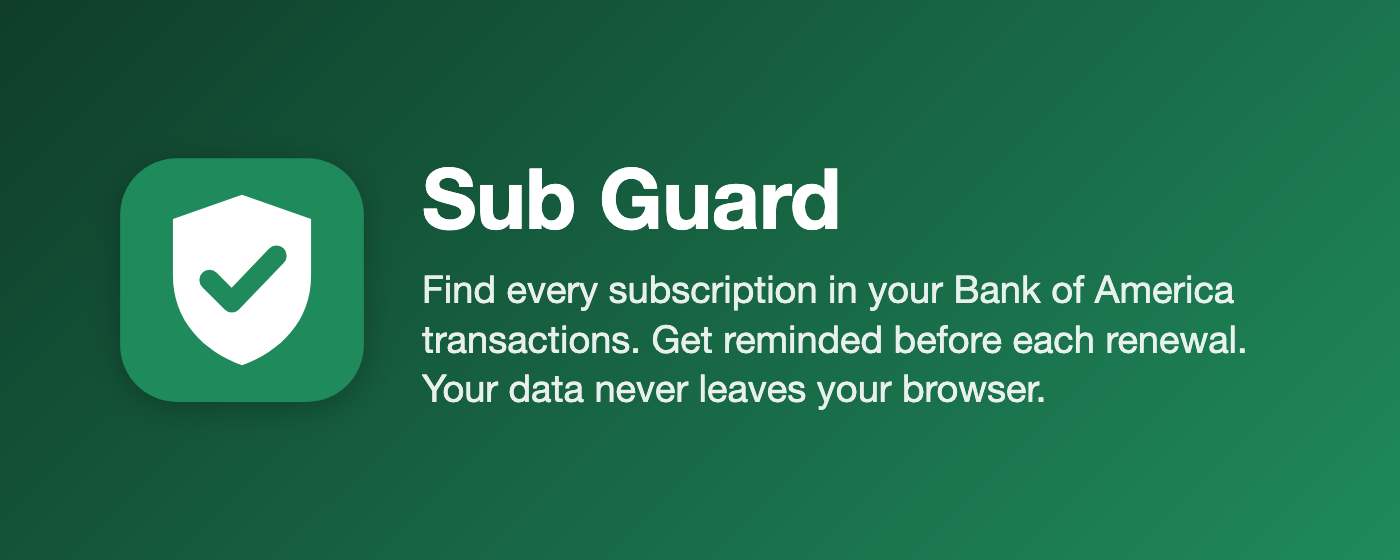
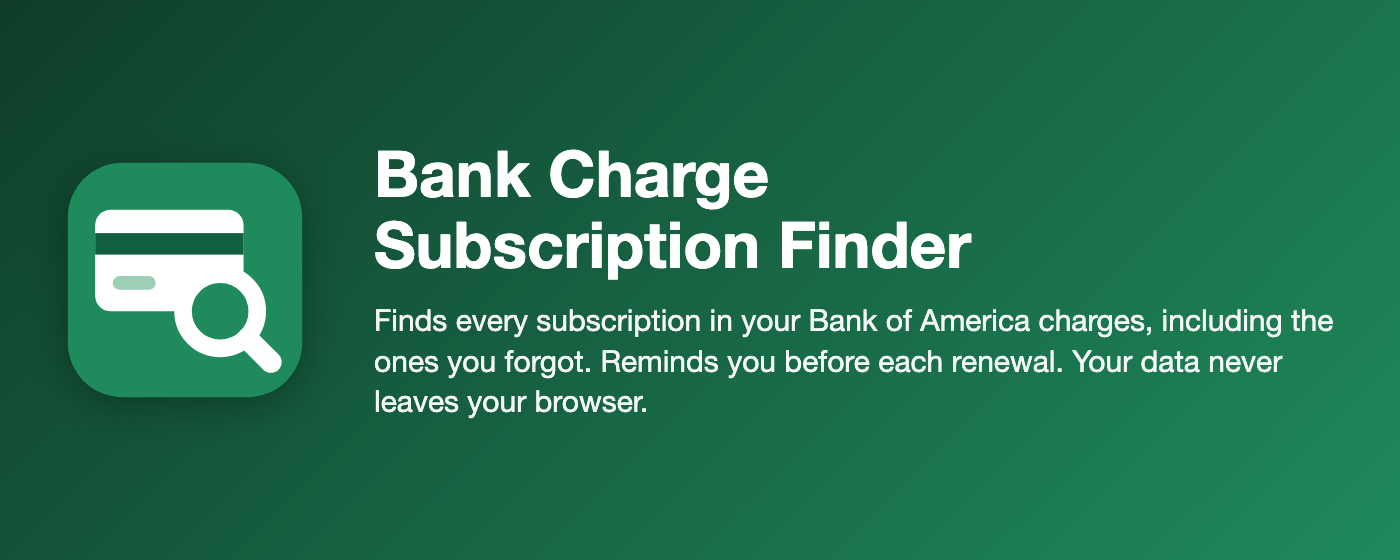
rename to bank-charge-subscription-finder

Changed region(s): [[0.0307, 0.2429, 0.9521, 0.7589]]

diff --git a/details.js b/details.js
@@ -120,7 +120,7 @@ const csvCell = (v) => `"${String(v ?? '').replace(/"/g, '""')}"`;
 $('exportTxns').onclick = () => {
   const lines = ['date,description,amount,account']
     .concat(txns.map((t) => [t.date, t.desc, t.amount.toFixed(2), t.account].map(csvCell).join(',')));
-  download(`sub-guard-transactions-${stamp()}.csv`, lines.join('\n'), 'text/csv');
+  download(`subscription-finder-transactions-${stamp()}.csv`, lines.join('\n'), 'text/csv');
   say(`Exported ${txns.length} transactions.`);
 };
 
@@ -139,7 +139,7 @@ $('exportDebug').onclick = async () => {
       return { at: new Date(s.at).toISOString(), path: s.path, rowsFound: E.extractRows(doc).length, skeleton: E.skeleton(doc) };
     }),
   };
-  download(`sub-guard-debug-${stamp()}.json`, JSON.stringify(info, null, 2), 'application/json');
+  download(`subscription-finder-debug-${stamp()}.json`, JSON.stringify(info, null, 2), 'application/json');
   say(`Exported debug info: ${debugLog.length} scan steps, ${snapshots.length} saved pages (text masked).`);
 };
 

diff --git a/content.js b/content.js
@@ -24,7 +24,7 @@
           button.s{background:transparent;color:#fff;border:1px solid rgba(255,255,255,.5)}
           label{display:block;margin:3px 0}
         </style>
-        <div class="b"><div class="t">Sub Guard</div><div class="m"></div><div class="a"></div></div>`;
+        <div class="b"><div class="t">Bank Charge Subscription Finder</div><div class="m"></div><div class="a"></div></div>`;
       bannerText = root.querySelector('.m');
       bannerActions = root.querySelector('.a');
       document.documentElement.appendChild(host);

diff --git a/analyze.js b/analyze.js
@@ -137,7 +137,7 @@ export function parseBankCsv(text, account = '') {
   const ai = h.findIndex((c) => c === 'amount');
   let ci = h.findIndex((c) => /payee|description|merchant|name/.test(c));
   if (ci < 0) ci = h.findIndex((_, i) => i !== di && i !== ai);
-  const acc = h.indexOf('account'); // present in Sub Guard's own export
+  const acc = h.indexOf('account'); // present in this extension's own export
   return lines.slice(hi + 1).map((r) => ({ date: r[di], desc: r[ci], amount: r[ai], account: (acc >= 0 && r[acc]) || account }));
 }
 

diff --git a/popup.html b/popup.html
@@ -13,7 +13,7 @@
   </style>
 </head>
 <body>
-  <h1 style="font-size:16px;margin:0 0 10px">Sub Guard</h1>
+  <h1 style="font-size:16px;margin:0 0 10px">Bank Charge Subscription Finder</h1>
   <button id="analyze" class="primary">Analyze Bank of America</button>
   <p class="muted small" style="margin:6px 0 0">Opens BofA in a new tab. You log in; I read your transactions and find subscriptions. Nothing leaves this browser.</p>
   <div class="row"><button id="results">Report</button><button id="details">Details</button></div>

diff --git a/test/analyze.test.js b/test/analyze.test.js
@@ -187,7 +187,7 @@ test('rows with screen-reader button text or balance lines are dropped, includin
   assert.deepEqual(all.map((t) => t.desc), ['NETFLIX.COM']);
 });
 
-test("re-importing Sub Guard's own CSV export keeps each row's account", () => {
+test("re-importing the extension's own CSV export keeps each row's account", () => {
   const csv = 'date,description,amount,account\n"2026-11-03","NETFLIX.COM","15.49","Visa - 0000"\n';
   const [r] = parseBankCsv(csv, 'file-name');
   assert.equal(r.account, 'Visa - 0000');

diff --git a/background.js b/background.js
@@ -146,7 +146,7 @@ chrome.alarms.onAlarm.addListener(async (alarm) => {
     chrome.notifications.create('rescan', {
       type: 'basic',
       iconUrl: 'icons/icon128.png',
-      title: 'Sub Guard: monthly subscription check',
+      title: 'Monthly subscription check',
       message: lastScanAt
         ? `No Bank of America scan yet this month (last one ${new Date(lastScanAt).toLocaleDateString()}). Click to scan now.`
         : 'You haven\'t scanned Bank of America yet. Click to scan now.',

diff --git a/details.html b/details.html
@@ -3,7 +3,7 @@
 <head>
   <meta charset="utf-8">
   <meta name="viewport" content="width=device-width, initial-scale=1">
-  <title>Sub Guard · Details</title>
+  <title>Details · Bank Charge Subscription Finder</title>
   <link rel="stylesheet" href="style.css">
   <style>
     main { max-width: 980px; margin: 0 auto; padding: 24px 16px 60px; }

diff --git a/results.html b/results.html
@@ -3,7 +3,7 @@
 <head>
   <meta charset="utf-8">
   <meta name="viewport" content="width=device-width, initial-scale=1">
-  <title>Sub Guard · Report</title>
+  <title>Report · Bank Charge Subscription Finder</title>
   <link rel="stylesheet" href="style.css">
   <style>
     main { max-width: 760px; margin: 0 auto; padding: 24px 16px 60px; }

diff --git a/store/LISTING.md b/store/LISTING.md
@@ -3,13 +3,13 @@
 Everything needed for the Chrome Web Store developer dashboard, field by field.
 
 ## Package
-Raise `version` in manifest.json for every upload (the store rejects the same or a lower one). `npm run package` → `dist/sub-guard-<version>.zip`. Upload that file.
+Raise `version` in manifest.json for every upload (the store rejects the same or a lower one). `npm run package` → `dist/bank-charge-subscription-finder-<version>.zip`. Upload that file.
 
 ## Store listing
 
-**Name:** Sub Guard
+**Name (from manifest.json `name`):** Bank Charge Subscription Finder
 
-**Summary (≤132 chars, from manifest.json `description`):** Data stays in your browser. Finds Bank of America subscriptions, reminds before renewals. Open source: github.com/leonmu/sub-guard
+**Summary (≤132 chars, from manifest.json `description`):** Finds subscriptions in your Bank of America charges. Data stays in your browser. Open source: github.com/leonmu/sub-guard
 
 **Category:** Productivity → Tools (or Lifestyle → Shopping if Tools is unavailable)
 
@@ -17,19 +17,20 @@ Raise `version` in manifest.json for every upload (the store rejects the same or
 
 **Description:**
 
-> Your bank data never leaves your browser. Sub Guard has no server: your transactions, notes and settings are stored
-> only on your computer and are never sent to us, to Google, or to anyone. The only website it talks to is Bank of
-> America itself, while you scan.
+> Forgot to cancel a subscription again? Most subscription trackers guess from your browsing history, or ask you to
+> link an account on their website. Bank Charge Subscription Finder reads the charges your bank actually made, so it
+> also finds the subscriptions you forgot about, and reminds you before each one renews.
 >
-> Don't take our word for it: Sub Guard is open source, so you can read every line yourself at
+> No account, no website to link, no password shared. You log in to Bank of America yourself; the extension reads
+> the activity page you're looking at, in your browser. Your transactions, notes and settings are stored only on
+> your computer and are never sent to us, to Google, or to anyone.
+>
+> Don't take our word for it: the code is open source, so you can read every line yourself at
 > https://github.com/leonmu/sub-guard . An automated test there blocks any change that would send data out.
 >
-> Forgot to cancel a subscription again? Sub Guard finds every recurring charge on your Bank of America
-> cards and accounts, and reminds you before each one renews.
->
 > HOW IT WORKS
-> • Click "Analyze Bank of America". A Bank of America tab opens and you log in as usual. Sub Guard never touches the login form.
-> • Sub Guard reads your account activity, up to about a year back, across the accounts you choose.
+> • Click "Analyze Bank of America". A Bank of America tab opens and you log in as usual. The extension never touches the login form.
+> • It reads your account activity, up to about a year back, across the accounts you choose.
 > • You get a report of this month's subscriptions, plus a "suspicious" list: repeat charges that might be subscriptions.
 > • Three days before a subscription renews, you get a notification. If you haven't scanned in a month, it reminds you to.
 >
@@ -43,7 +44,7 @@ Raise `version` in manifest.json for every upload (the store rejects the same or
 > • Import a CSV exported from Bank of America instead of scanning.
 > • Browse and filter every transaction it read, and export them as CSV.
 >
-> Sub Guard is open source: https://github.com/leonmu/sub-guard
+> Free, no limits. Open source: https://github.com/leonmu/sub-guard
 > Not affiliated with or endorsed by Bank of America.
 
 **Screenshots (1280×800):** `store/screenshot-report.png`, `store/screenshot-details.png` (made-up demo data)

diff --git a/README.md b/README.md
@@ -1,11 +1,14 @@
 <p align="center"><img src="icons/icon128.png" width="96" alt=""></p>
 
-# Sub Guard
+# Bank Charge Subscription Finder
 
 A Chrome extension that finds the subscriptions in your Bank of America transactions and reminds you before
 they renew, so a forgotten trial or an unused plan doesn't keep charging you for months.
 
-**Privacy promise:** Sub Guard has no server. Your transactions, notes and settings are stored only in your browser and are never sent anywhere: not to us, not to Google, not to anyone. The only website it talks to is Bank of America itself, while you scan. The code is open source, and [an automated test](test/privacy.test.js) fails if any change would send data out. See [PRIVACY.md](PRIVACY.md).
+Most subscription trackers guess from your browsing history or ask you to link an account on their website. This
+one reads the charges your bank actually made, so it also finds the subscriptions you forgot about.
+
+**Privacy promise:** the extension has no server. Your transactions, notes and settings are stored only in your browser and are never sent anywhere: not to us, not to Google, not to anyone. The only website it talks to is Bank of America itself, while you scan. The code is open source, and [an automated test](test/privacy.test.js) fails if any change would send data out. See [PRIVACY.md](PRIVACY.md).
 
 ![Report](store/screenshot-report.png)
 
@@ -26,7 +29,7 @@ From source, until it's on the Chrome Web Store:
 
 1. Download or clone this repo.
 2. Open `chrome://extensions`, turn on **Developer mode**, click **Load unpacked**, pick the folder.
-3. Pin the Sub Guard icon and click **Analyze Bank of America**.
+3. Pin the extension icon and click **Analyze Bank of America**.
 
 If a scan gets stuck, use **Scan this page** in its banner. You can also download a CSV from Bank of America
 (Account activity → Download) and use **Import CSV** on the Details page.
@@ -58,7 +61,7 @@ Extension pages run with `connect-src 'none'`, so they cannot send data anywhere
 npm test            # unit tests, including the privacy guard (Node 20+)
 npm run test:e2e    # loads the extension in Playwright against a local mock page; bankofamerica.com is
                     # mapped to localhost so the real site is never contacted. Needs PLAYWRIGHT=<path to playwright>
-npm run package     # dist/sub-guard-<version>.zip for the Chrome Web Store
+npm run package     # dist/bank-charge-subscription-finder-<version>.zip for the Chrome Web Store
 ```
 
 - [extract.js](extract.js) reads transactions from a page. It's shared by the live scan ([content.js](content.js)) and

diff --git a/PRIVACY.md b/PRIVACY.md
@@ -1,24 +1,24 @@
-# Sub Guard privacy policy
+# Bank Charge Subscription Finder privacy policy
 
-_Last updated: November 14, 2026_
+_Last updated: November 22, 2026_
 
-Sub Guard is a Chrome extension that finds recurring charges (subscriptions) in your Bank of America
+Bank Charge Subscription Finder is a Chrome extension that finds recurring charges (subscriptions) in your Bank of America
 transactions and reminds you before they renew.
 
 ## Summary
 
-**Your data never leaves your browser.** Sub Guard has no server, no account, no analytics and no tracking.
+**Your data never leaves your browser.** The extension has no server, no account, no analytics and no tracking.
 It does not sell, share or transfer your data to anyone.
 
-## What Sub Guard reads
+## What the extension reads
 
-Only when you start a scan, and only in the tab that scan opens, Sub Guard reads the Bank of America
+Only when you start a scan, and only in the tab that scan opens, the extension reads the Bank of America
 account activity pages you're logged in to: transaction dates, descriptions, amounts and the account name.
 You can also import a CSV file you downloaded from your bank.
 
-Sub Guard never reads, fills in or stores your login details. You log in yourself.
+The extension never reads, fills in or stores your login details. You log in yourself.
 
-## What Sub Guard stores, and where
+## What the extension stores, and where
 
 Everything is kept in Chrome's local extension storage (`chrome.storage.local`) on your computer:
 
@@ -27,7 +27,7 @@ Everything is kept in Chrome's local extension storage (`chrome.storage.local`) 
 - the subscriptions it found, and your own notes and choices (removed, marked as subscription)
 - settings such as which accounts to scan
 
-## What Sub Guard sends
+## What the extension sends
 
 Nothing. The extension's pages are blocked from making network requests (`connect-src 'none'`), and the
 extension can only access `bankofamerica.com`. Reminders are local Chrome notifications.
@@ -48,7 +48,7 @@ it stored.
 
 ## Not affiliated with Bank of America
 
-Sub Guard is an independent project. It is not made, endorsed or supported by Bank of America.
+Bank Charge Subscription Finder is an independent project. It is not made, endorsed or supported by Bank of America.
 
 ## Contact
 
